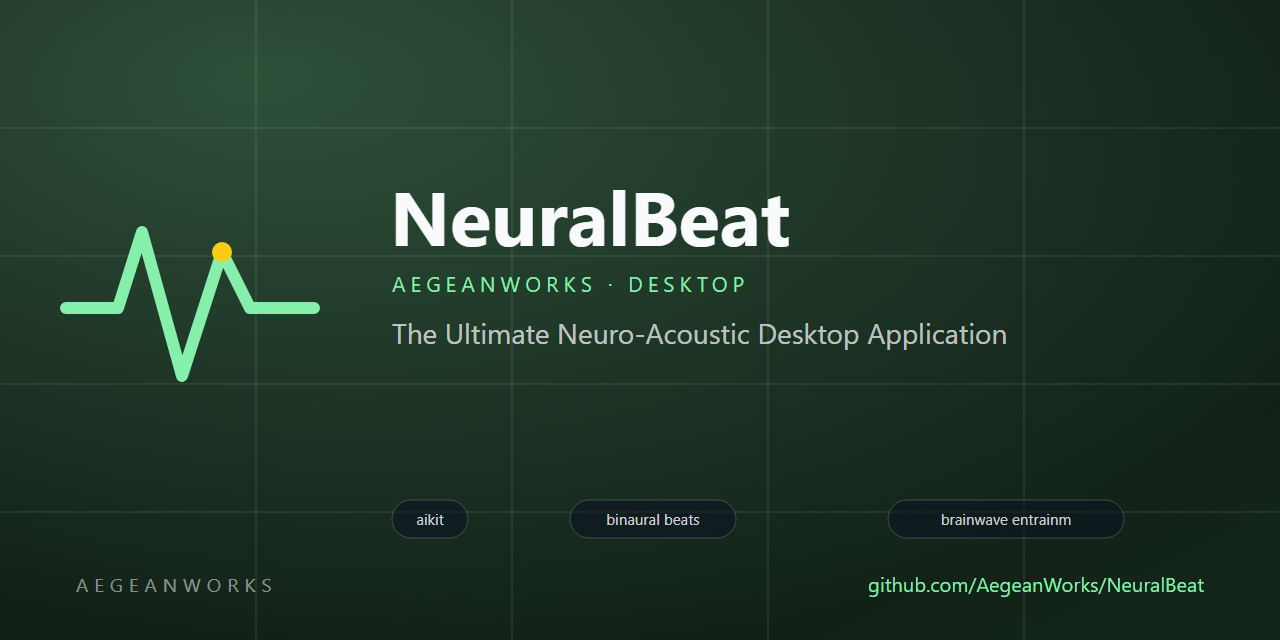
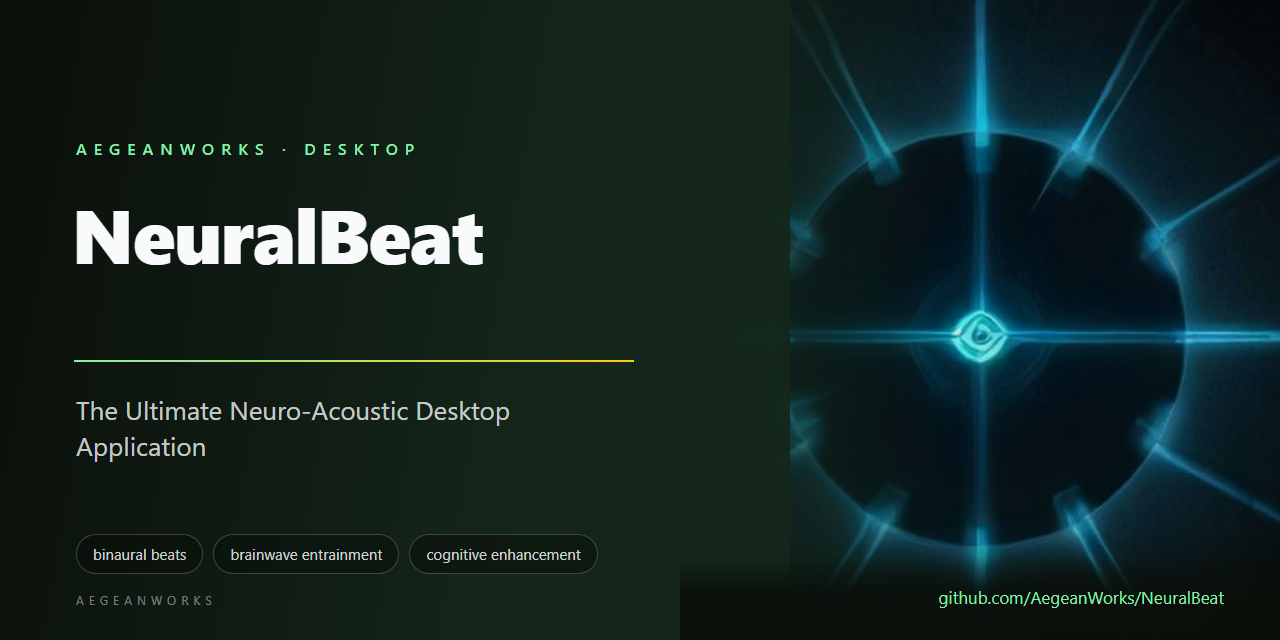
feat(brand): replace procedural marks with reviewed AI-art identities

diff --git a/README.md b/README.md
@@ -3,8 +3,8 @@
 # NeuralBeat 1.0.0
 
 <!-- aegean:media:start -->
-<p align="center"><img src="assets/logo.svg" alt="NeuralBeat logo" width="96" height="96"></p>
-<p align="center"><img src="assets/social-preview.svg" alt="NeuralBeat social preview" width="100%"></p>
+<p align="center"><img src="assets/logo.png" alt="NeuralBeat logo" width="96" height="96"></p>
+<p align="center"><img src="assets/social-preview.png" alt="NeuralBeat social preview" width="100%"></p>
 <!-- aegean:media:end -->
 
 [![AIKit Integrated](https://img.shields.io/badge/AIKit-integrated-6f42c1)](https://github.com/AegeanWorks/AIKit)
